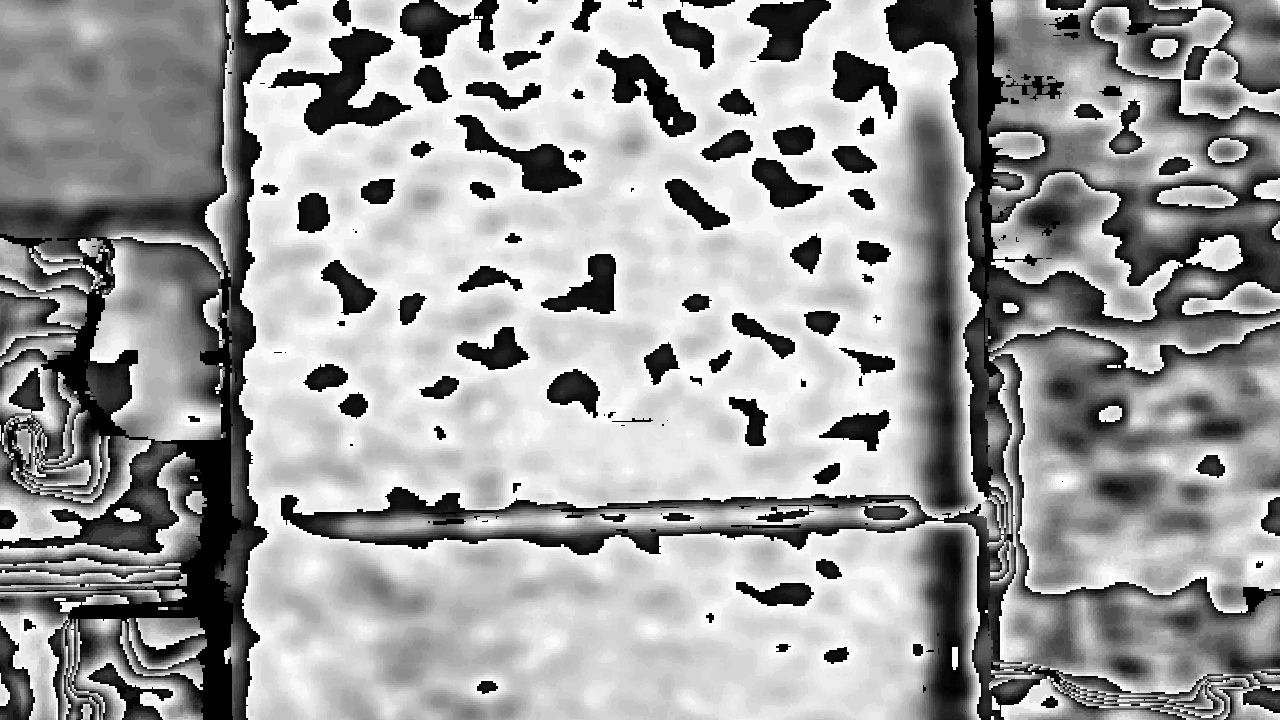
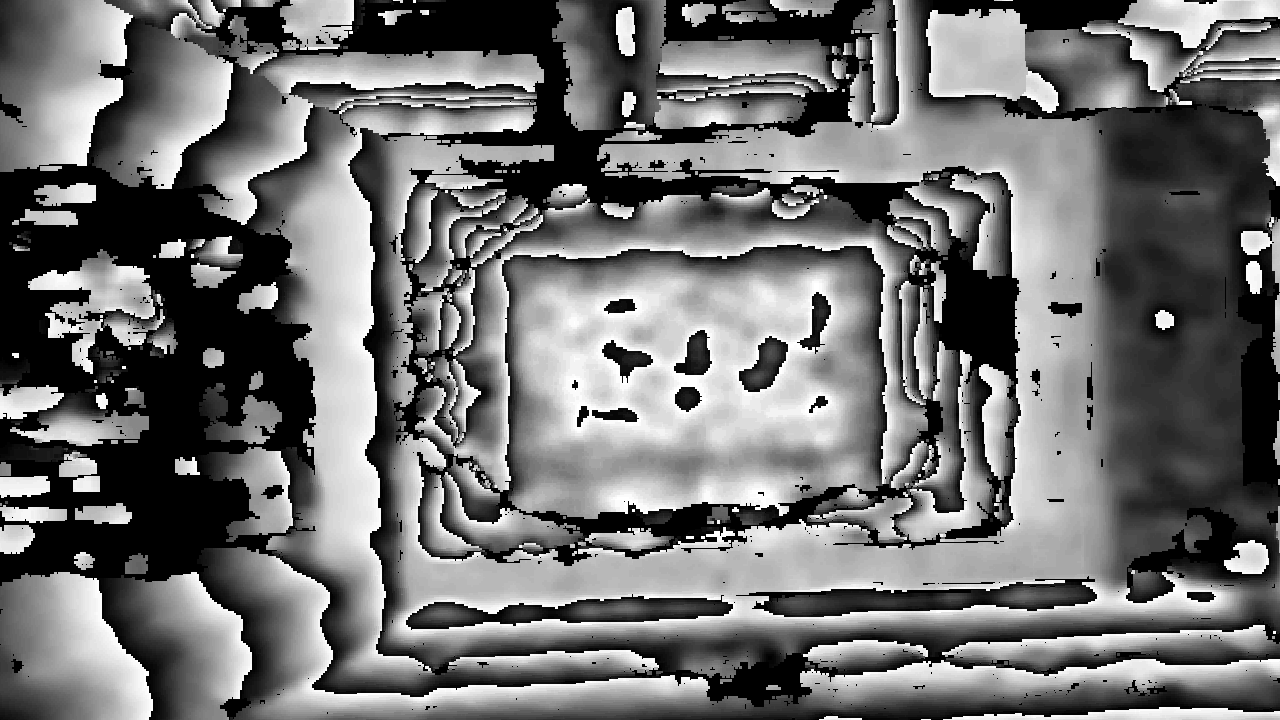
recent changes

diff --git a/src/feeding_deployment/perception/handle_perception/handle_perception.py b/src/feeding_deployment/perception/handle_perception/handle_perception.py
@@ -208,15 +208,15 @@ class HandlePerception(TFInterface):
         depth_mm = (depth_image * 1000.0).astype("uint16")
         cv2.imwrite(file_path + "/depth.png", depth_mm)
 
-        # vis_image, pixel_coords, response = self.molmo.query(
-        #     image_path=file_path + "/rgb.png",
-        #     prompt="Point to the center of the start / 30 secs button",
-        #     save_response_image_to=file_path + "/rgb_keypoint.png",
-        # )
+        vis_image, pixel_coords, response = self.molmo.query(
+            image_path=file_path + "/rgb.png",
+            prompt="Point to the center of the white back panel of the microwave",
+            save_response_image_to=file_path + "/rgb_keypoint.png",
+        )
 
-        # print("Pixel coords from molmo:", pixel_coords)
+        print("Pixel coords from molmo:", pixel_coords)
 
-        # ok, button_3d = self.pixel2World(camera_info_msg, pixel_coords[0][0], pixel_coords[0][1], depth_image)
+        ok, panel_keypoint_3d = self.pixel2World(camera_info_msg, pixel_coords[0][0], pixel_coords[0][1], depth_image)
 
         # if not ok:
         #     print("Could not get valid 3D point for button")